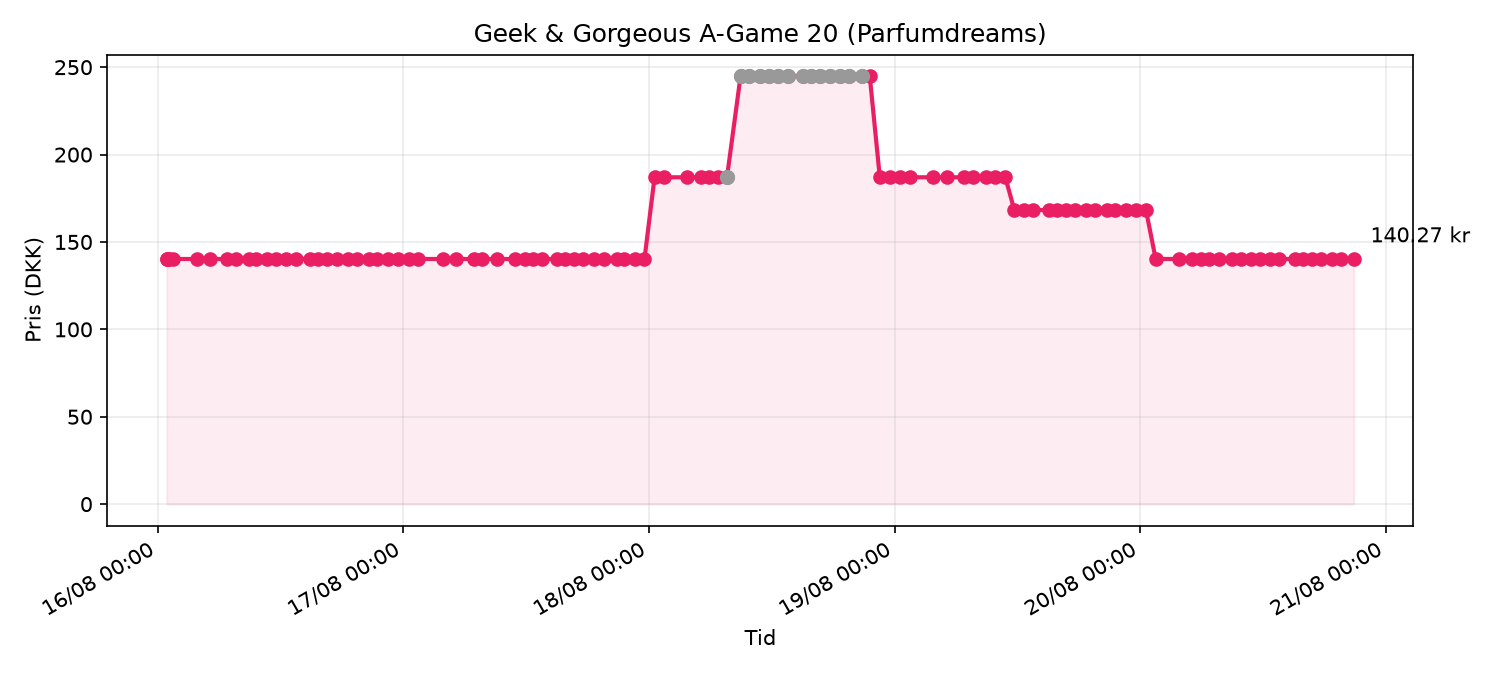
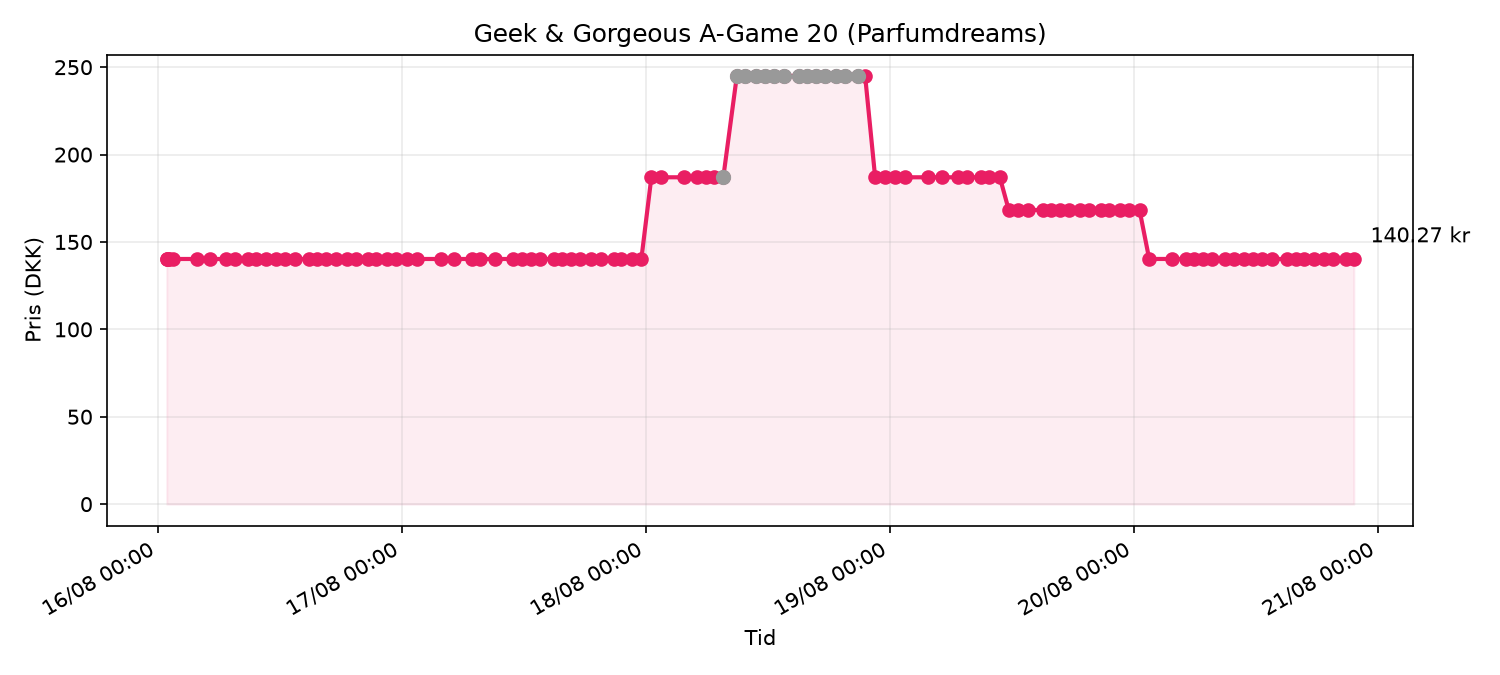
price check 2026-08-20T19:37Z

diff --git a/data/price_chart.html b/data/price_chart.html
@@ -13,7 +13,7 @@
 </head>
 <body>
   <h1>Geek & Gorgeous A-Game 20 (Parfumdreams)</h1>
-  <p class="meta">Senest tjekket: 20/08/2026 20:51 · Pris: <strong>140.27 kr</strong> · på lager</p>
+  <p class="meta">Senest tjekket: 20/08/2026 21:37 · Pris: <strong>140.27 kr</strong> · på lager</p>
   
   <p><a href="https://www.parfumdreams.dk/Geek-Gorgeous/Samlinger/101-aktive-stoffer/A-Game-20-Serum/index_137083.aspx?variation=221879">Åbn produkt på Parfumdreams</a></p>
   <img src="price_chart.png" alt="Prisgraf">
